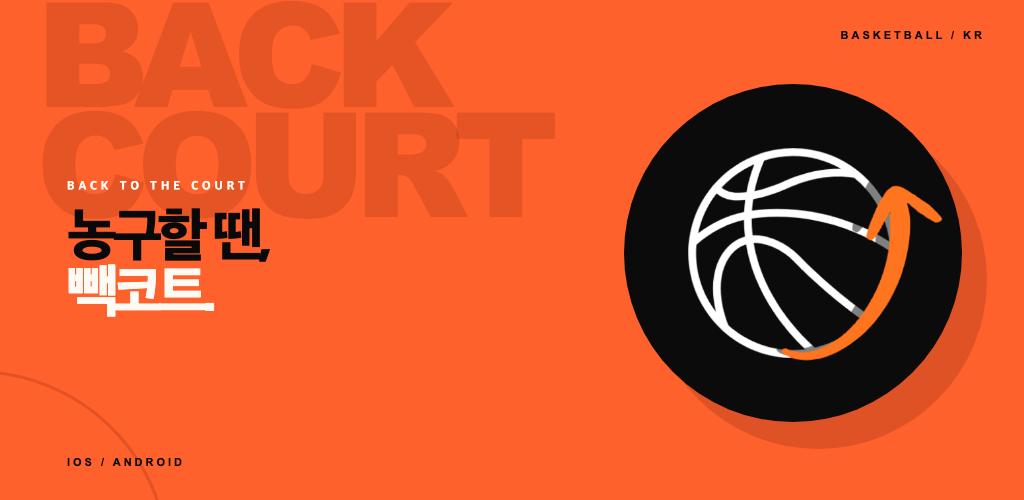
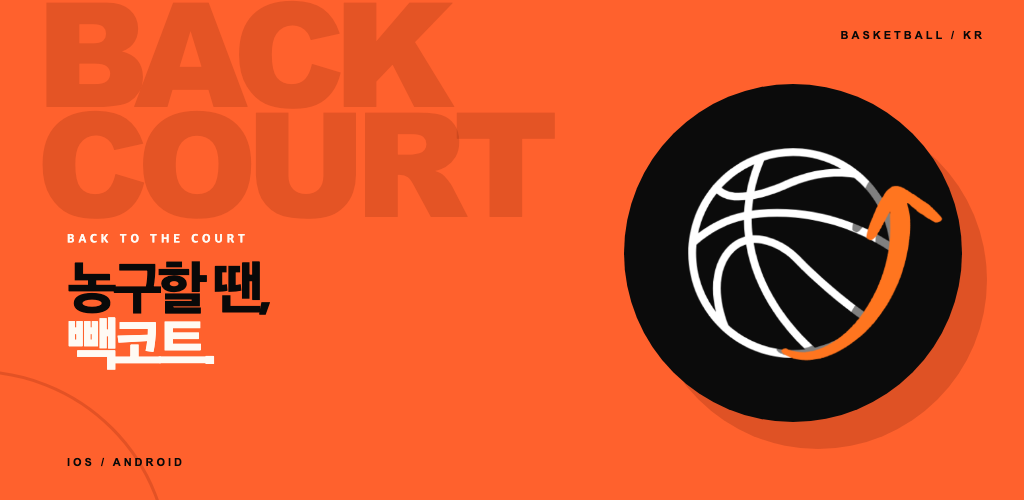
Adjust Play feature graphic copy position

Changed region(s): [[0.0625, 0.42, 0.2812, 0.75], [0.0625, 0.36, 0.25, 0.39]]

diff --git a/Backcourt-Social/google-play-feature.html b/Backcourt-Social/google-play-feature.html
@@ -25,7 +25,7 @@
         font: 900 145px/.76 "Arial Black", Arial, sans-serif;
         letter-spacing: -12px;
       }
-      .copy { position: absolute; z-index: 2; left: 67px; top: 179px; }
+      .copy { position: absolute; z-index: 2; left: 67px; top: 232px; }
       .eyebrow { margin: 0 0 17px; color: #fffaf4; font-size: 12px; font-weight: 900; letter-spacing: 4px; }
       h1 { margin: 0; font-size: 58px; line-height: .96; font-weight: 950; letter-spacing: -5px; }
       h1 span { color: #fffaf4; }
